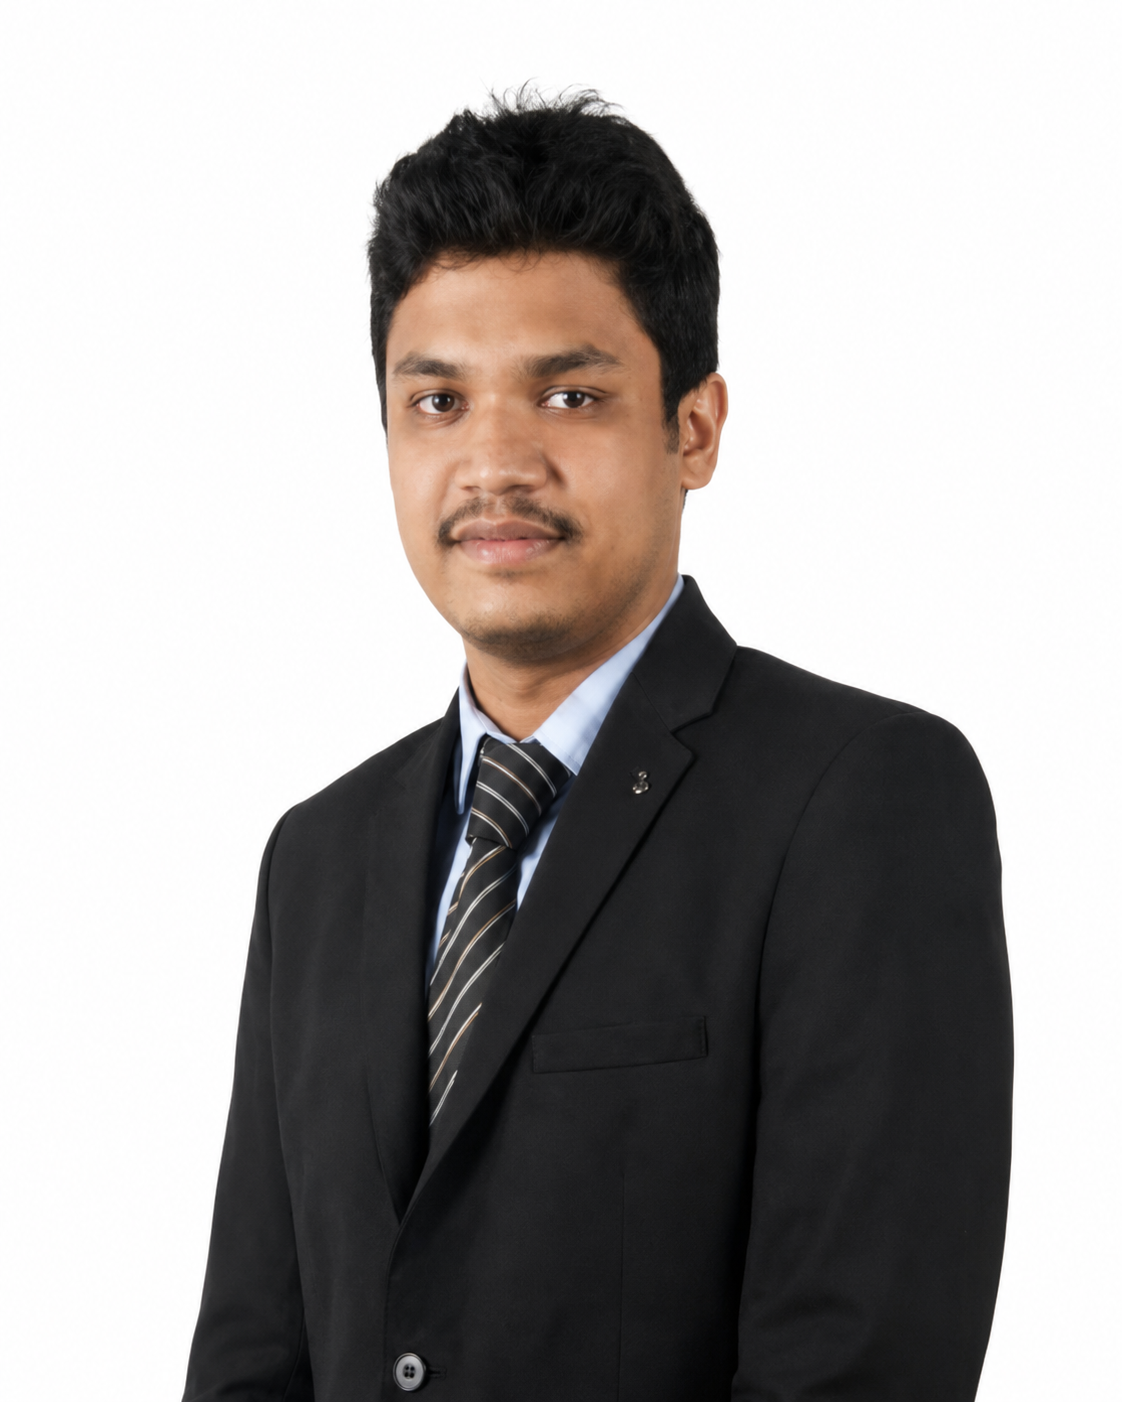
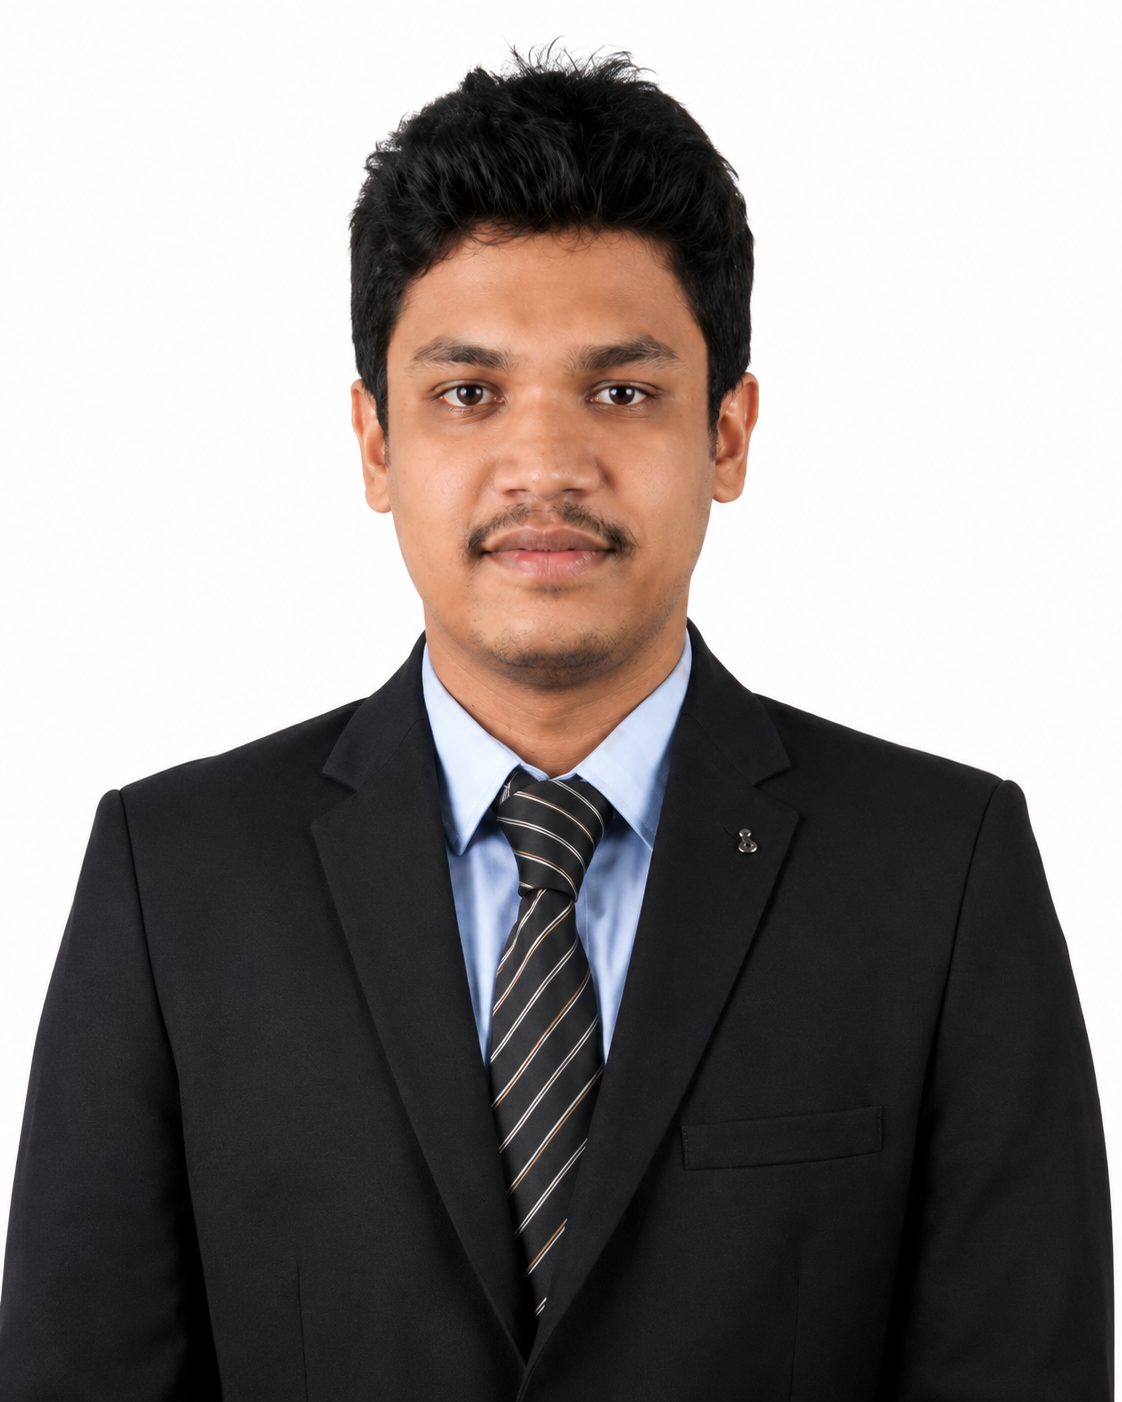
images

diff --git a/frontend/src/pages/Home.jsx b/frontend/src/pages/Home.jsx
@@ -898,7 +898,7 @@ export default function Home() {
             transition={{ duration: 0.8, delay: 0.2 }}
             className="text-slate-400 text-xs sm:text-sm md:text-base max-w-3xl leading-relaxed mb-6 sm:mb-12 font-medium tracking-wide uppercase font-mono"
           >
-            Research & Development • Manufacturing • DGCA Approved RPTO • Industry Drone Services
+           Training - DGCA Approved • Research & Development • Manufacturing • Industry Drone Services
           </motion.p>
 
           <motion.div